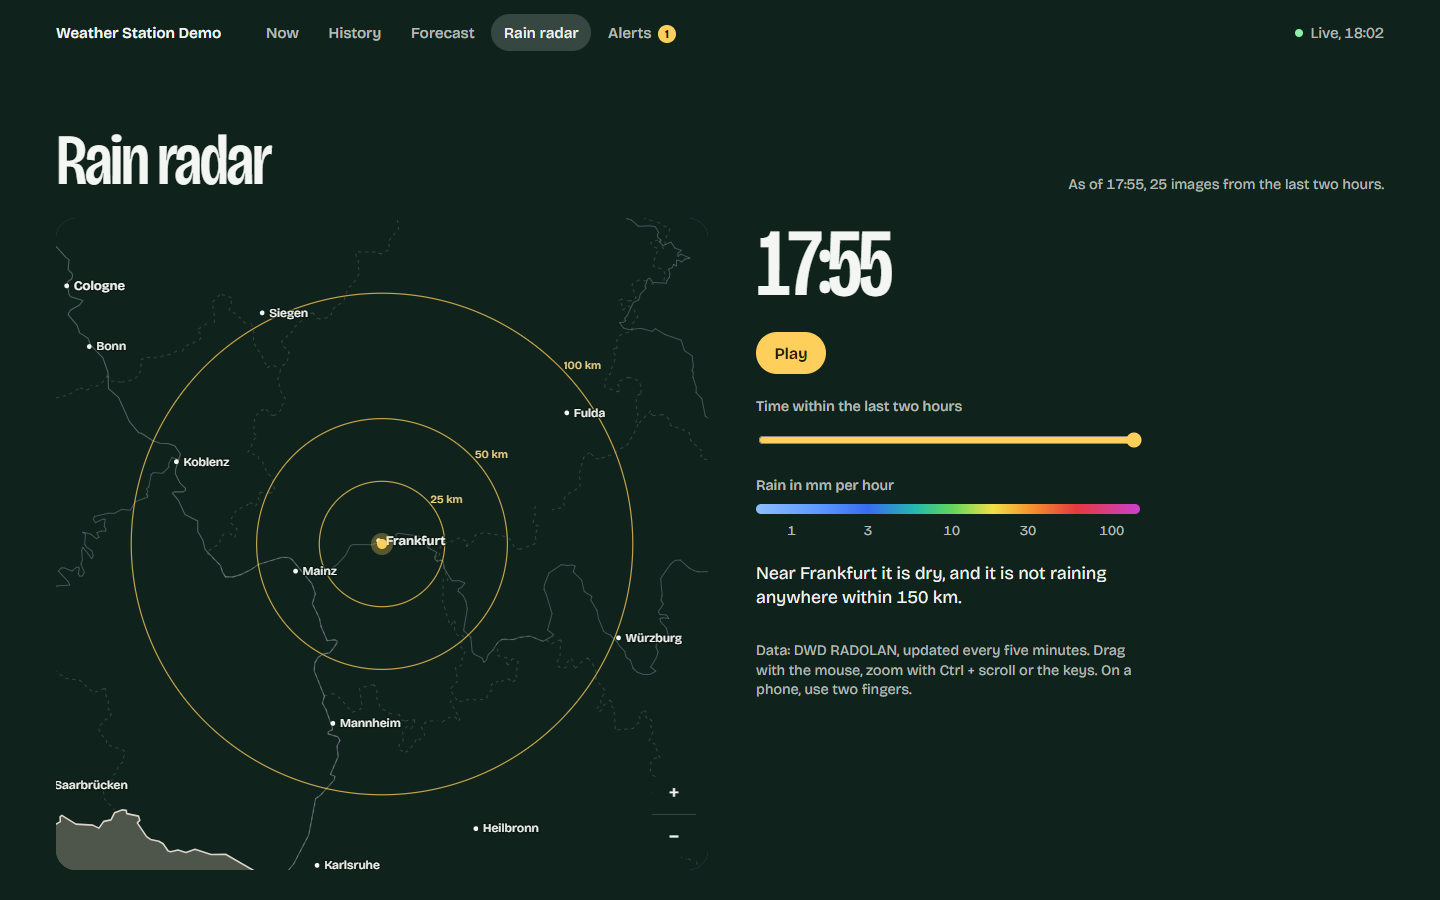
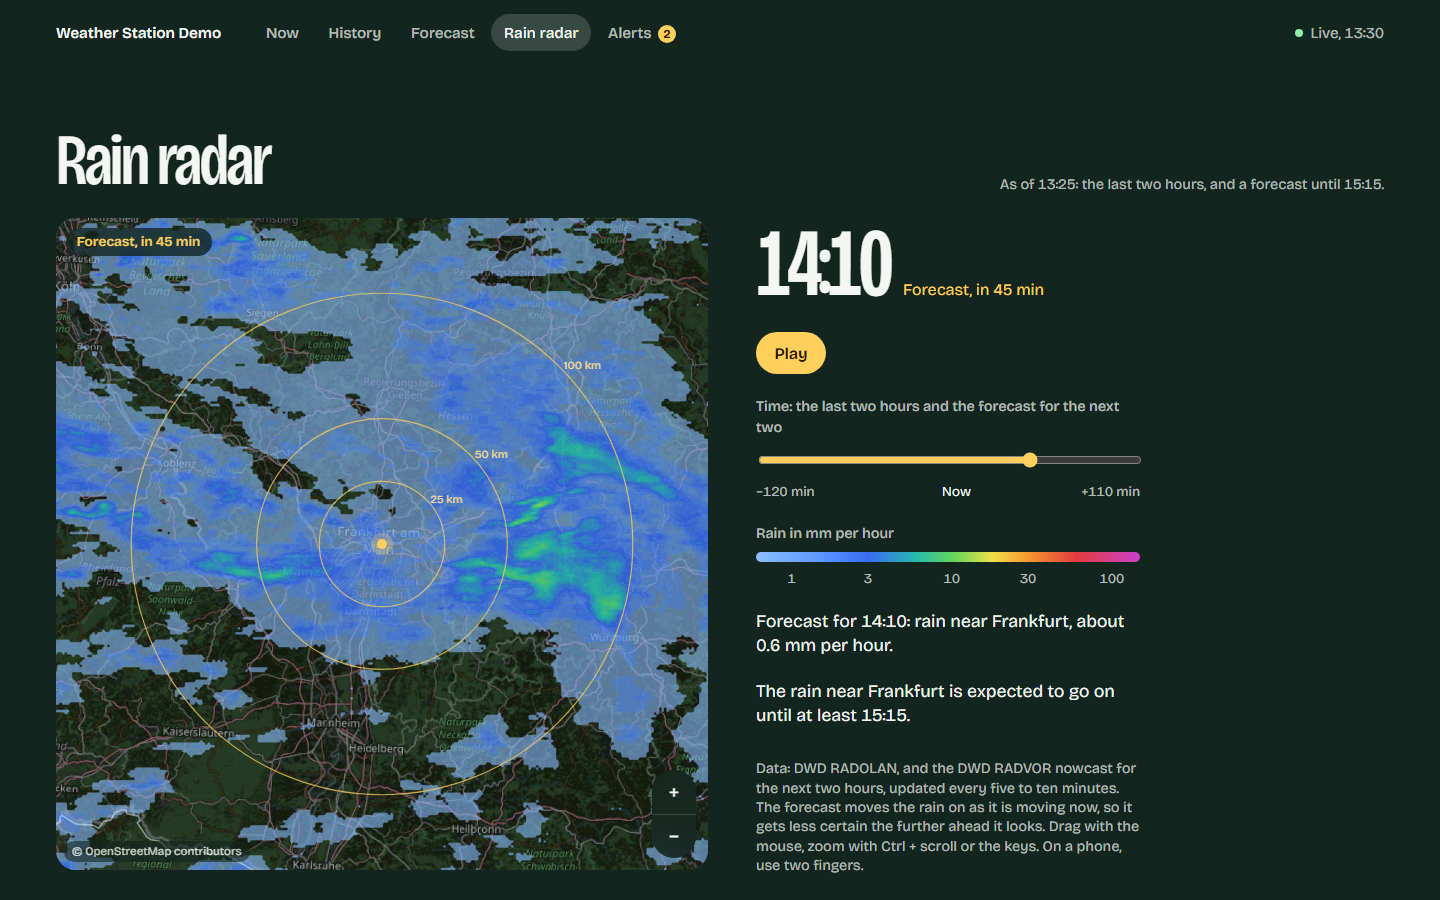
Show the radar forecast in the README screenshot

diff --git a/README.md b/README.md
@@ -46,7 +46,7 @@ All screenshots are from demo mode.
 |---|---|
 | ![History: a week of temperature as a line chart with the lowest, average and highest value](docs/screenshot-history.png) | ![Forecast: the next three days hour by hour as a temperature line with weather symbols and the chance of rain as bars](docs/screenshot-forecast.png) |
 | **Rain radar** | **The Now screen in German** |
-| ![Rain radar: a map around Frankfurt with distance rings, a play button, the time slider and the colour scale](docs/screenshot-radar.png) | ![The Now screen with German text: Jetzt, Fühlt sich an wie 15,6°, Gewitter in der Nähe](docs/screenshot-de.png) |
+| ![Rain radar on a forecast frame 45 minutes ahead: rain over a map around Frankfurt with distance rings and a Forecast badge, the time slider past Now, the colour scale and the expected rain at the home location](docs/screenshot-radar.png) | ![The Now screen with German text: Jetzt, Fühlt sich an wie 15,6°, Gewitter in der Nähe](docs/screenshot-de.png) |
 
 On a phone:
 
